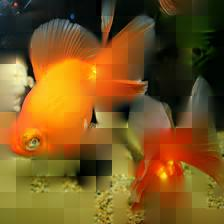
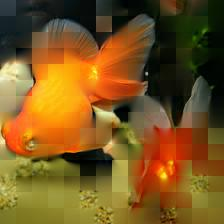
full patches mse loss on fixed seed=42

diff --git a/run_mae_vis.py b/run_mae_vis.py
@@ -73,6 +73,16 @@ def get_model(args):
 
     return model
 
+def set_seed(seed=42):
+    import random
+    random.seed(seed)
+    np.random.seed(seed)
+    torch.manual_seed(seed)
+    torch.cuda.manual_seed(seed)
+    torch.cuda.manual_seed_all(seed)
+    torch.backends.cudnn.deterministic = True
+    torch.backends.cudnn.benchmark = False
+
 def compute_pixelwise_accuracy(original, reconstructed, threshold=0.05):
     abs_diff = torch.abs(original - reconstructed)
 
@@ -99,7 +109,7 @@ def calculate_patchwise_mse(img, rec_img, patch_size):
     return mse_losses
 
 
-def plot_mse_per_patch(mse_losses, save_path, title):
+def plot_mse_per_patch(mse_losses, save_path, title, y_range):
     """Plot Mean Squared Error for each patch."""
     plt.figure(figsize=(10, 6))
     plt.plot(mse_losses, marker='o')
@@ -108,7 +118,7 @@ def plot_mse_per_patch(mse_losses, save_path, title):
     plt.xlabel('Patch Index')
     plt.ylabel('MSE')
     plt.grid(True)
-    plt.ylim(0, 0.1)  # Manually setting y-axis range
+    plt.ylim(y_range)  # Manually setting y-axis range
     plt.savefig(save_path, bbox_inches='tight', dpi=300)
 
 
@@ -121,11 +131,11 @@ def assessment(img, rec_img, img_type, patch_size):
     # calculate y-range for the MSE plots so they share the same y-axis range:
     y_range = (min(mse_losses), max(mse_losses))
 
-    plot_mse_per_patch(mse_losses, save_path=f'out/rec_{img_type}_vs_ori_{img_type}.png', title=f'Mean Squared Error for Each Patch: rec_{img_type}_img vs ori_{img_type}_img')
+    plot_mse_per_patch(mse_losses, save_path=f'out/rec_{img_type}_vs_ori_{img_type}.png', title=f'Mean Squared Error for Each Patch: rec_{img_type}_img vs ori_{img_type}_img', y_range=y_range)
 
 def main(args):
     print(args)
-
+    # set_seed(42)
     device = torch.device(args.device)
     cudnn.benchmark = True
     img_type = args.img_type
@@ -198,4 +208,5 @@ def main(args):
 
 if __name__ == '__main__':
     opts = get_args()
+    set_seed(42)
     main(opts)
